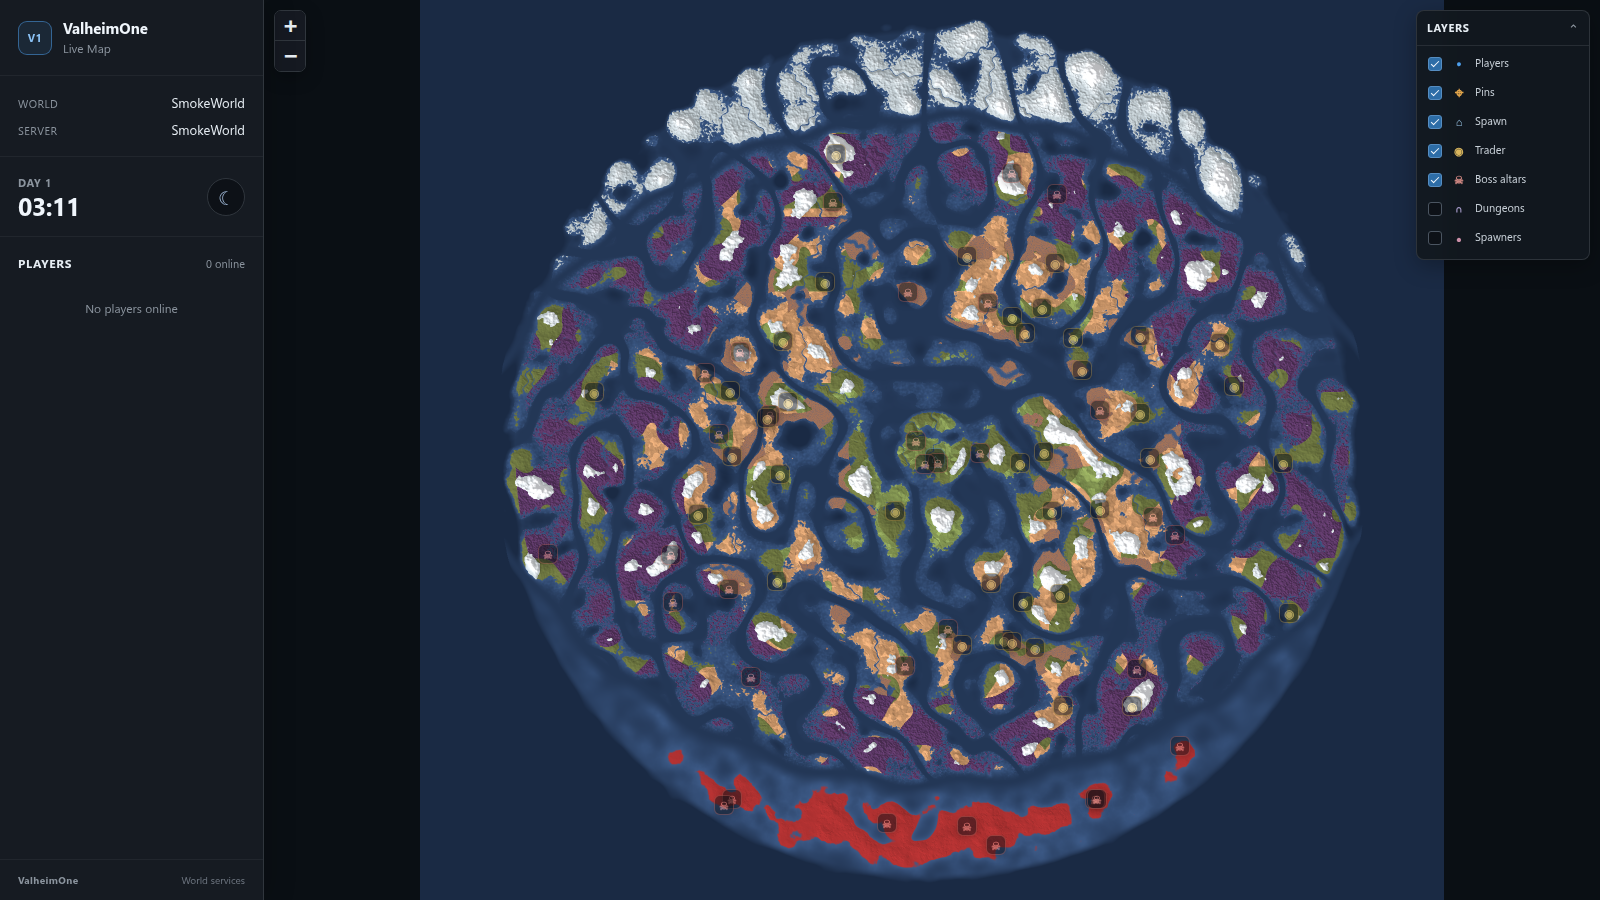
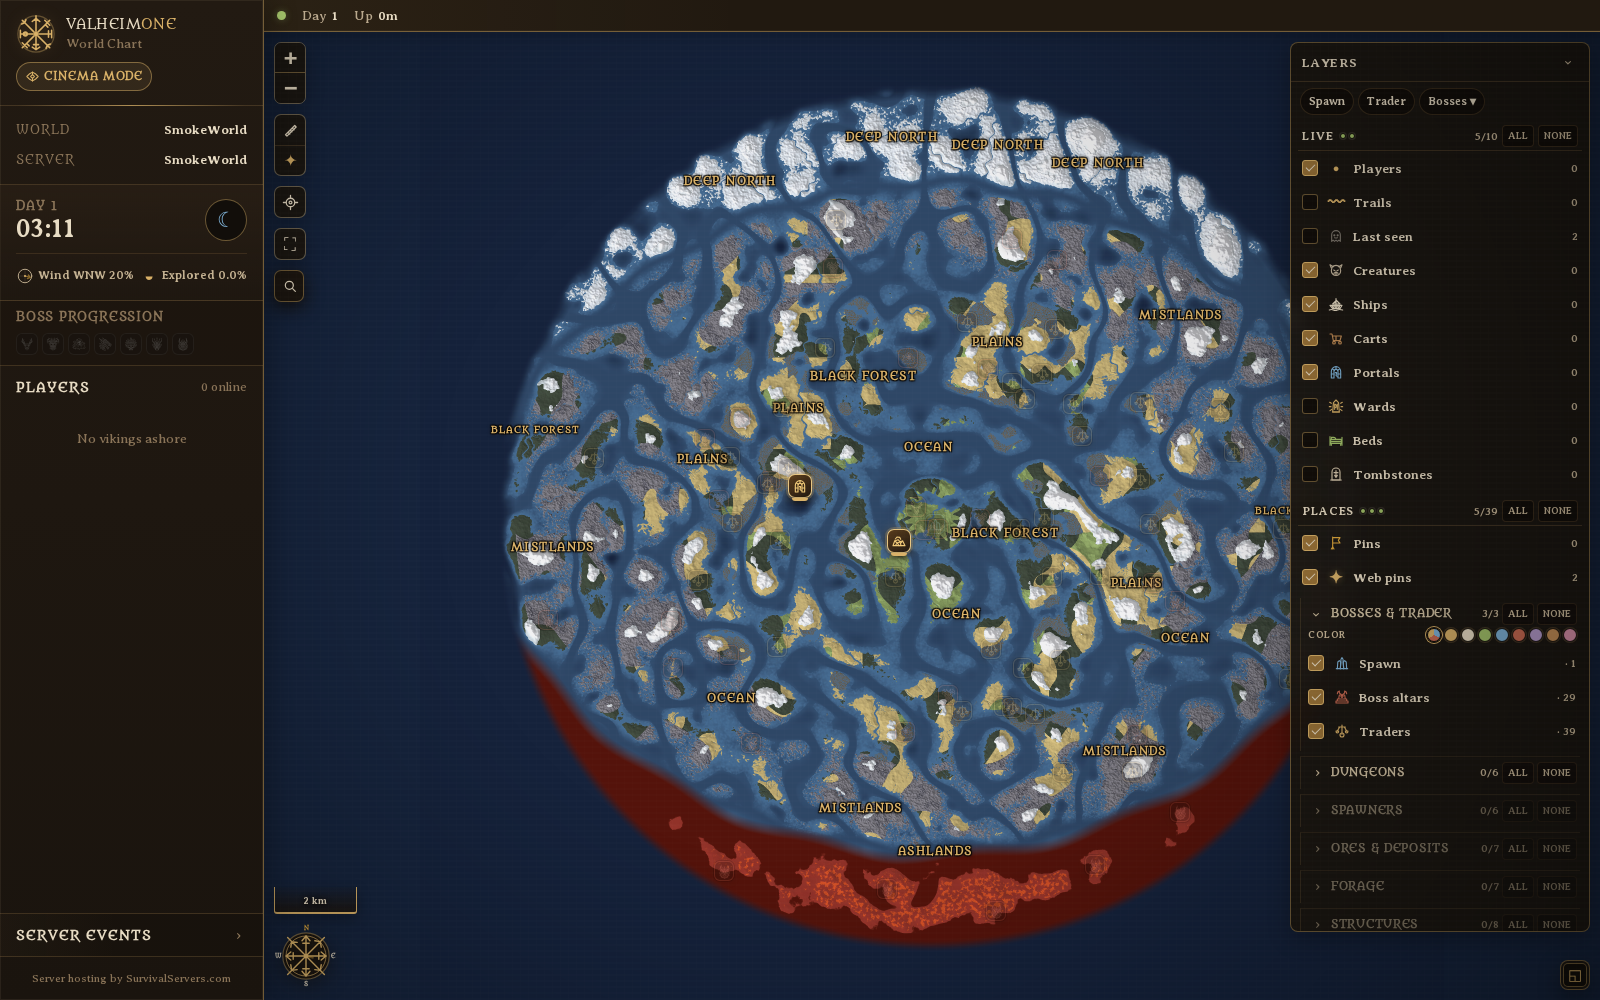
Refresh Live Map README section and admin screenshot for the creature, base, and ship-tow layers

diff --git a/README.md b/README.md
@@ -37,7 +37,7 @@ _ValheimOne is a community project and is not affiliated with or endorsed by Iro
 
 ### Live Map
 
-Builds a procedural world render directly from the server seed, then cuts it into a zoomable Leaflet tile pyramid cached on disk for fast browser navigation. Live player positions (honoring in-game position privacy), points of interest read from world locations, shared map pins, and fog-of-war all update over the generated terrain, with a toggleable Layers panel and low-zoom POI clustering. Updates stream over an `/api/events` Server-Sent-Events feed (with automatic polling fallback), and an opt-in entity layer adds ships, carts, portals, and a pulsing ring for active raid events.
+Builds a procedural world render directly from the server seed, then cuts it into a zoomable Leaflet tile pyramid cached on disk for fast browser navigation. Live player positions (honoring in-game position privacy), points of interest read from world locations, shared map pins, and fog-of-war all update over the generated terrain, with a toggleable Layers panel and low-zoom POI clustering. Updates stream over an `/api/events` Server-Sent-Events feed (with automatic polling fallback), and an opt-in entity layer adds ships, carts, portals, tombstones, wards, beds, and a pulsing ring for active raid events, alongside a default-off Creatures layer that tracks bosses, serpents, and mobs inside an active raid. An on-demand structure survey clusters player-built pieces into a Bases layer that outlines each settlement with its approximate structure count, and admins can tow an unattended ship to a clicked map point, with moves refused while players are nearby or beyond a five-kilometer limit.
 
 ![ValheimOne Live Map — admin view](docs/screenshots/livemap-admin.png)
 
